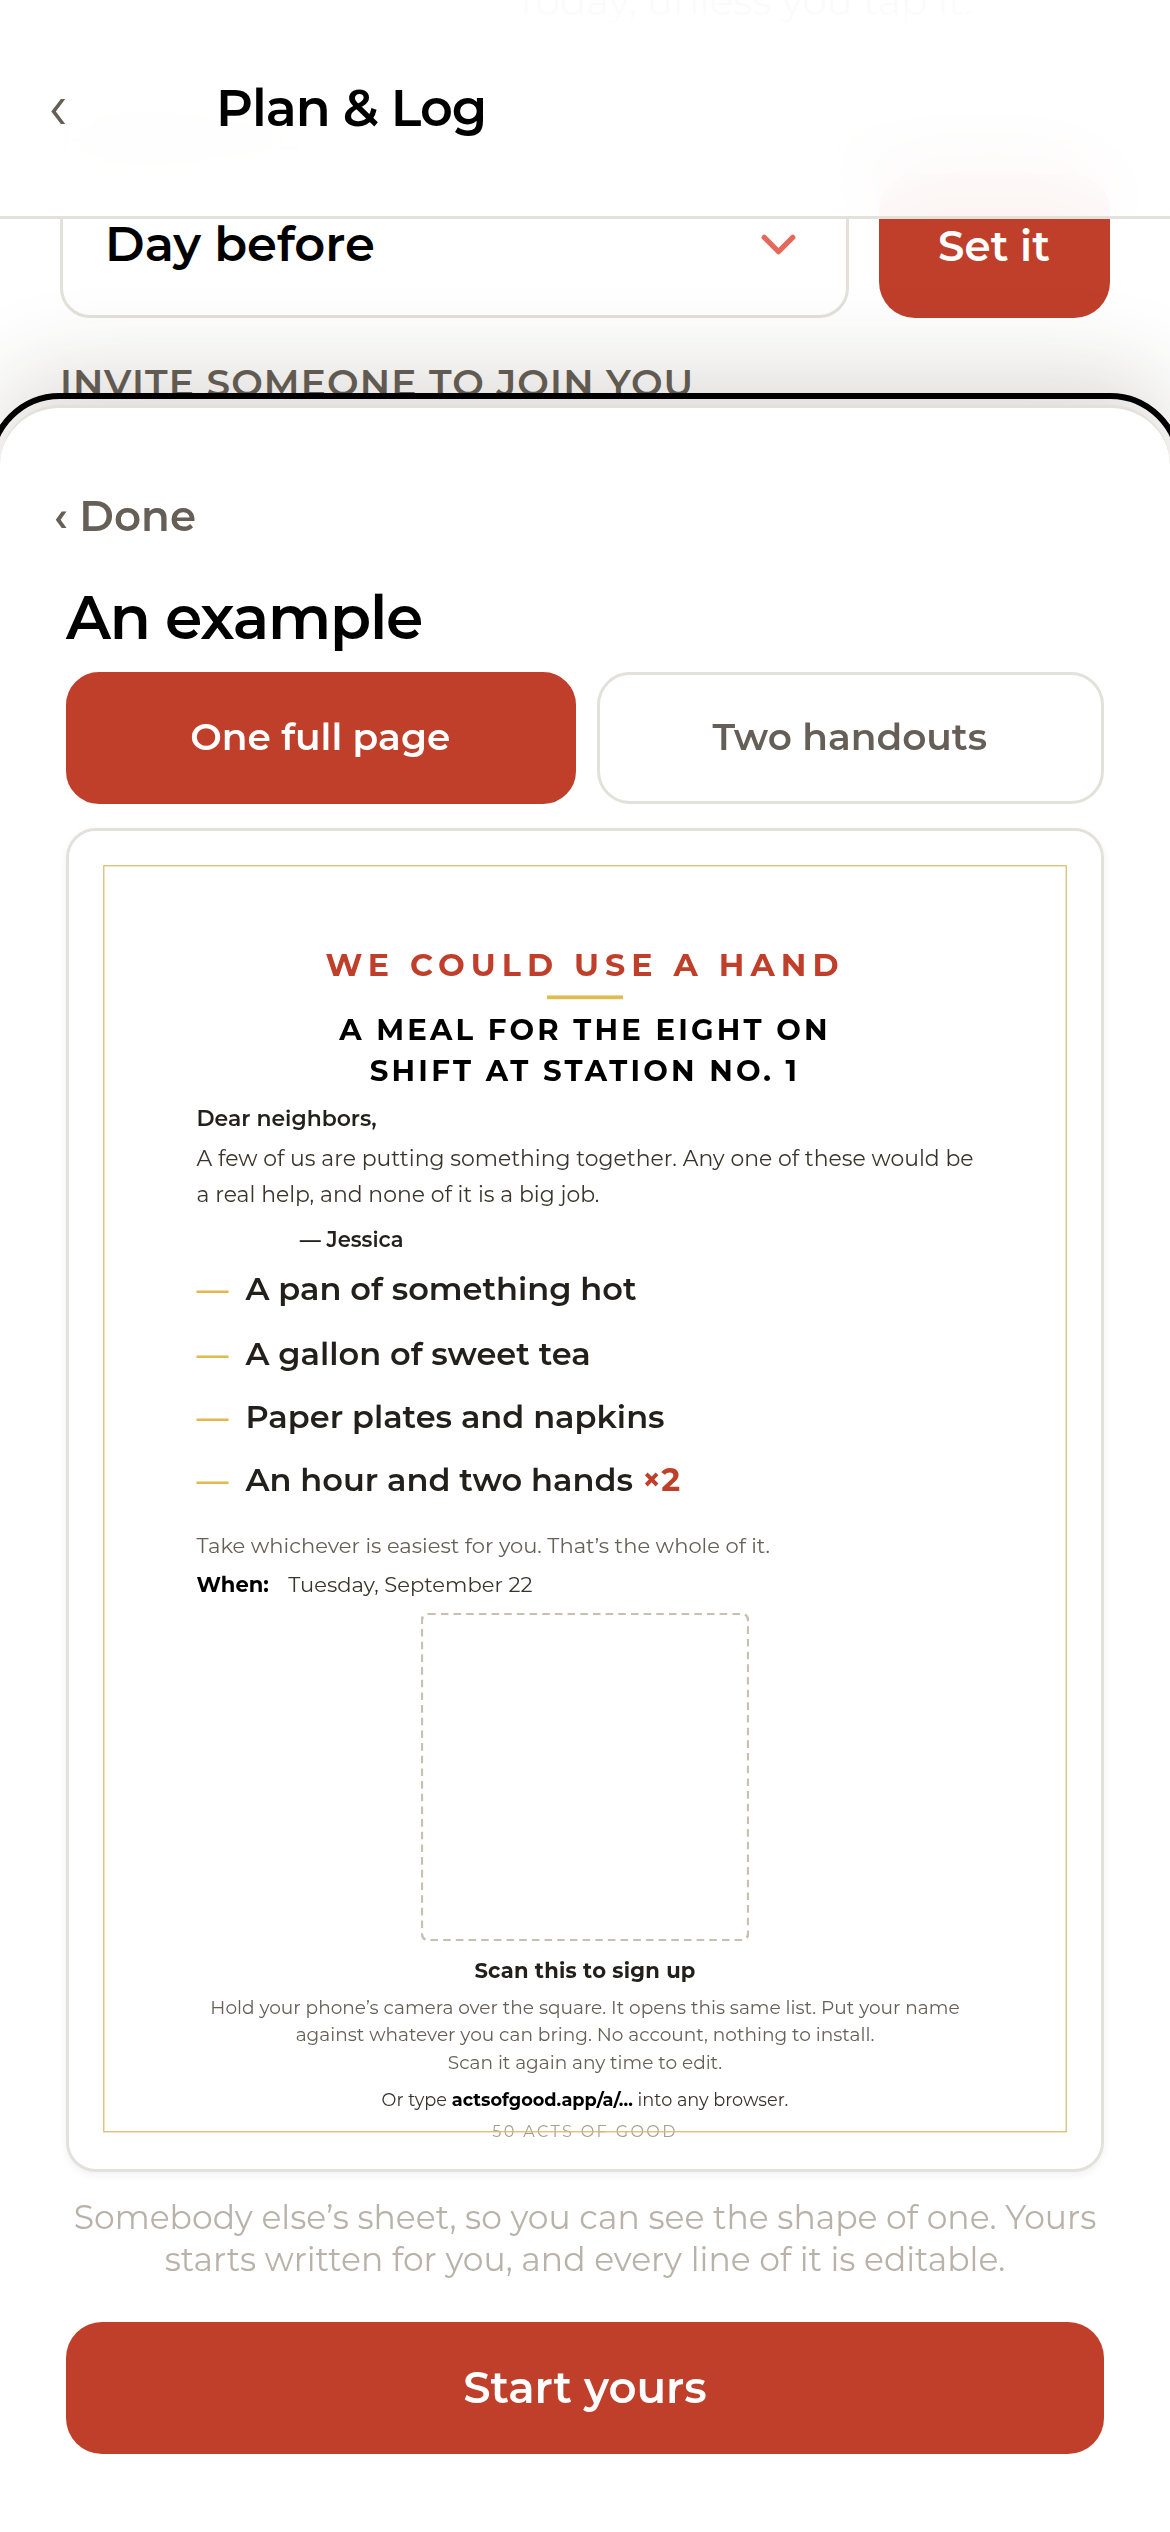
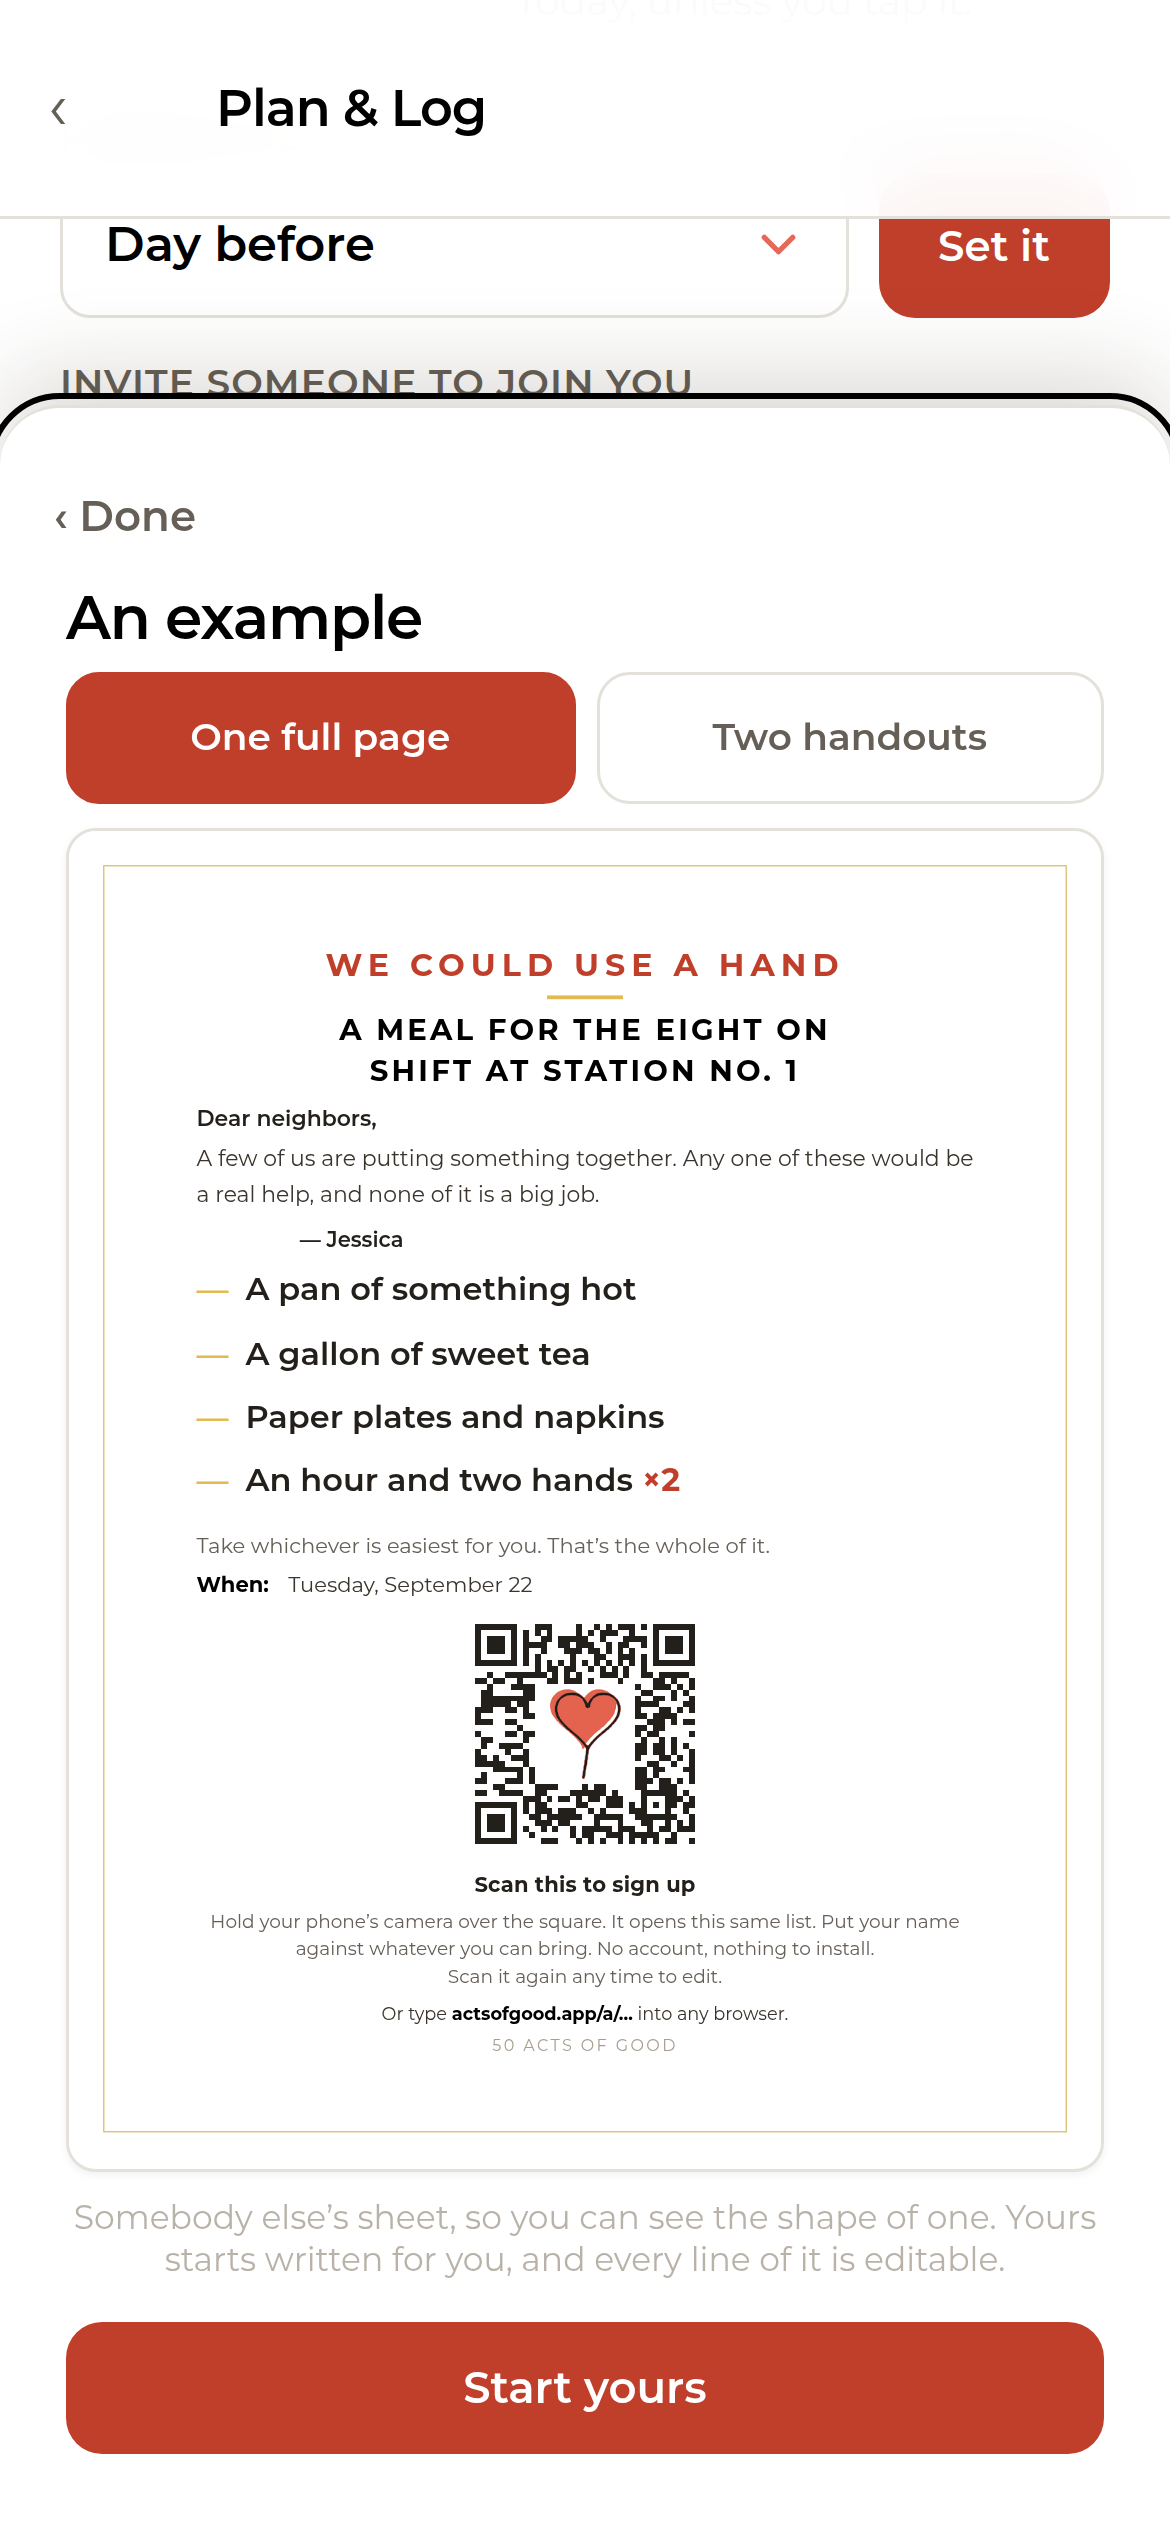
6H: the proposed act number fills itself in and runs with the year, and the finish no longer stamps it into the act on its way past

Changed region(s): [[0.2462, 0.624, 0.7385, 0.8424]]

diff --git a/index.html b/index.html
@@ -942,7 +942,6 @@ body.hasinstall{padding-bottom:calc(184px + env(safe-area-inset-bottom))}
   padding:5px;line-height:0;border-radius:9px;min-width:44px;min-height:44px;display:inline-flex;align-items:center;justify-content:center}
 .datewrap .calgo svg{display:block}
   .datewrap .calgo{pointer-events:none;padding:0}
-  .pqeg{border:2px dashed #C9C0B2;border-radius:6px;display:inline-block}
 .datebtn.empty{color:#B9B2A9;font-weight:400}
 /* The half act was removed entirely on G's instruction, 6 Sept 2026. See HANDOFF. */
 /* the year, finished — the one line on Your year that is not a measurement */
@@ -1852,7 +1851,7 @@ select.pick::-ms-expand{display:none}
       <input id="wk-t" oninput="wkEdited()" placeholder="Doughnuts for the vet clinic staff"></div>
 
     <div style="display:flex;gap:10px">
-      <div class="field" style="flex:1"><label for="wk-exp">Which act</label>
+      <div class="field" style="flex:1"><label for="wk-exp">Proposed act</label>
         <input id="wk-exp" oninput="wkEdited()" inputmode="decimal"></div>
       <div class="field" style="flex:1.4"><label for="wk-when-btn">Aiming for</label>
         <input id="wk-when" type="hidden" aria-hidden="true">
@@ -1971,13 +1970,20 @@ select.pick::-ms-expand{display:none}
   <button class="sheetback" onclick="sheet(null)">‹ Back</button>
   <h3 id="fin-h3">This becomes</h3>
   <div style="display:flex;gap:10px;align-items:flex-end;margin-top:12px">
+    <!-- RULED by G, 16 September 2026: "even if I pick tile 14 I cannot post
+         out of turn it has to be consecutive. You can plan but not complete the
+         post so if you post it changes to the next consecutive number."
+         So this states the number rather than asking for it. It stays a field
+         rather than a line of text because it is the same shape as the date
+         beside it and the person is reading them as a pair. -->
     <div class="field" style="flex:.7;margin:0"><label for="fin-no">Act</label>
-      <input id="fin-no" inputmode="numeric" style="max-width:90px"></div>
+      <input id="fin-no" inputmode="numeric" style="max-width:90px" readonly
+             aria-readonly="true"></div>
     <div class="field" style="flex:1.6;margin:0"><label for="fin-when-btn">On</label>
       <input id="fin-when" type="hidden" aria-hidden="true">
       <div class="datewrap"><button class="datebtn" id="fin-when-btn" onclick="openDate('fin-when')" data-lab="On" aria-label="On, pick a date" ></button></div></div>
   </div>
-  <p class="note" style="margin-top:10px">of <span id="fin-of"></span>. Editable.</p>
+  <p class="note" style="margin-top:10px">of <span id="fin-of"></span>. <span id="fin-why"></span></p>
   <p class="note" id="fin-ripe" style="margin-top:6px;font-style:italic;color:#6B5E3A"></p>
   <button class="btn" onclick="finishGo()" id="fin-go">On to the post</button>
 </div></div>
@@ -7423,6 +7429,17 @@ function openPaperPreview(){
    The example is Jessica's meal for the eight on shift — the act that produced
    this feature — and the last row costs nothing but an hour and two hands,
    which is ruling 23A's point and must not be edited out. */
+/* the payload of the example's code. Plain words, never a web address, so a
+   camera pointed at it opens nothing and explains itself. */
+/* MEASURED, 16 September 2026. A code's grain comes from how much it carries,
+   so the sentence has to be about as long as the address it stands in for or
+   the example teaches the wrong picture. A real sheet address is 35 characters
+   and draws 37 squares across; the first draft of this sentence was 115 and
+   drew 57, which is visibly finer than anything the app will ever print.
+
+   This one is 40 characters and draws 37 \u2014 the same grid as the real
+   thing. If it is ever reworded, measure again: the check below holds it. */
+const EG_QR_SAYS = 'An example sign-up sheet, not a real one';
 const ASK_EG_SHEET = {
   id:'example', key:'', live:0, claims:[], qty:[1,1,1,2],
   reason:'A meal for the eight on shift at Station No. 1',
@@ -8233,9 +8250,12 @@ async function askFree(pos){
    Level H, the letterhead heart in the middle, 17 of 37 modules cleared at 95%.
    MEASURED: 17x17 decodes, 19x19 does not. Do not make the heart bigger.
    Drawn offline — a poster can be made with no signal. */
-function askQR(id, px){
+/* `raw` exists for one caller: the example on the sign-up sheet block, which
+   needs a code that LOOKS right without pointing at a sheet that does not
+   exist. Every other caller passes an id and gets the real address. */
+function askQR(id, px, raw){
   px=px||150;
-  const q=qrcode(0,'H'); q.addData(AOG_BASE+'/a/'+id); q.make();
+  const q=qrcode(0,'H'); q.addData(raw || (AOG_BASE+'/a/'+id)); q.make();
   const n=q.getModuleCount(), side=Math.min(17,n-16), lo=Math.floor((n-side)/2), hi=lo+side;
   let d='';
   for(let y=0;y<n;y++) for(let x=0;x<n;x++)
@@ -8336,11 +8356,14 @@ function posterPanel(sh, half){
     (invite
       ? '<p class="ps">I hope you\u2019ll join us.</p>'
       : '<div class="pq">'+(sh.id==='example'
-             /* a working code on an example points at something that is not a
-                sheet, and a live code never travels into an example in this
-                project. The blank teaches the layout, which is the job. */
-             ? '<div class="pqeg" style="width:'+(half?150:260)+'px;height:'+
-               (half?150:260)+'px"></div>'
+             /* G, 16 Sept: "Add a fake QR code to the example." It is a real
+                code drawn by the real renderer, heart and all, so the example
+                looks like the thing it is teaching \u2014 but it carries a
+                sentence instead of an address. A live code never travels into
+                an example here, and a code pointing at /a/example would point
+                at a sheet that does not exist. Anybody who scans this gets
+                told, in words, that it is an example. */
+             ? askQR('example', half?150:260, EG_QR_SAYS)
              : askQR(sh.id, half?150:260))+'</div>'+
         '<p class="pfh">Scan this to sign up</p>'+
         /* RULED 12 Sept. Two changes, and the first is a promise, not a
@@ -8702,11 +8725,34 @@ function askPoster(kind){
 function openWork(w){
   WK = w;
   $('wk-t').value = w.t||'';
-  $('wk-exp').value = w.exp||'';
+  /* RULED by G, 16 September 2026: "you could say proposed act number and you
+     just auto fill this every time you post and if you fill one before it, it
+     will automatically update... it just needs to be almost like a running
+     number/tally."
+
+     So the box carries a number rather than a grey hint. NO NEW STATE, and that
+     is the whole trick (L89): an EMPTY w.exp means nobody has typed one, so the
+     box shows the live next square and re-reads it on every open. The moment
+     somebody types, wkEdited writes w.exp and the box is theirs from then on.
+     Clearing it hands it back to the running number.
+
+     It counts finished acts only. A plan sitting in a square is not a booking,
+     and the finish does not honour one either \u2014 the two have to agree or
+     the box is lying about what will happen. */
+  const live = nextSlot(false);
+  /* what the box was filled with when nobody had typed. wkEdited reads every
+     field on the editor, including from finishWork \u2014 so without this it
+     stamped the running number into the act the moment the finish sheet opened,
+     and a number nobody chose stopped running. Caught by a check, not by eye.
+     Deliberately NOT saved: it describes this visit to the screen. */
+  WK_EXP_AUTO = (w.exp || live > S.n) ? '' : String(live);
+  $('wk-exp').value = w.exp || WK_EXP_AUTO;
   /* G, 11 Sept: "remove auto, just say what is expected." The grey already says
      the number is provisional; "auto" spent five characters saying it a second
      time, and the brackets were being cut off inside the box. */
-  $('wk-exp').placeholder = String(nextSlot(true));
+  /* the box is filled now, so the hint only shows on a full year, where there
+     is no next square to propose */
+  $('wk-exp').placeholder = live <= S.n ? String(live) : '\u2014';
   /* G, 8 Sept: "the pick a date should be filled with the current date. If
      not, they'll have to pick the calendar to change it." Starting empty made
      every act in the works begin with no day at all, which meant a tap before
@@ -8733,11 +8779,15 @@ function openWork(w){
   drawPhotos('wk-photos','wk-file', w.photos, ()=>drawPhotos('wk-photos','wk-file', WK.photos, ()=>openWork(WK)));
   go('work');
 }
+let WK_EXP_AUTO = '';
 function wkEdited(){
   if(!WK) return;
   workKeep();
   WK.t = $('wk-t').value.trim();
-  WK.exp = $('wk-exp').value.trim();
+  /* a number the app proposed is not a number the person chose. Leaving it
+     empty is what keeps it running. */
+  const typed = $('wk-exp').value.trim();
+  WK.exp = (typed && typed === WK_EXP_AUTO) ? '' : typed;
   WK.d = $('wk-when').value;
   WK.hon = $('wk-hon').value.trim();
   WK.story = $('wk-story').value;
@@ -9169,8 +9219,25 @@ function finishWork(anon){
   if(!WK.t){ say('It needs a name','Everything else can wait. That bit can\u2019t.'); return; }
   FIN_ANON = !!anon;
   /* an expectation another act already fulfilled quietly steps aside */
-  const expTaken = WK.exp && S.acts.some(x=>slotOf(x)===Math.ceil(parseFloat(WK.exp)));
-  $('fin-no').value = (!WK.exp || expTaken) ? String(nextSlot(true)) : WK.exp;
+  /* THE NUMBER IS NOT A CHOICE. It is the next free square, counting finished
+     acts only \u2014 a plan sitting in a square must not push the act you are
+     finishing past it. Deleting an act leaves a hole, and the next act finished
+     drops into that hole, which is still "the next one" and is why this fills
+     gaps rather than counting from the highest. */
+  const slot = nextSlot(false);
+  $('fin-no').value = String(slot);
+  const why = $('fin-why');
+  if(why){
+    const planned = WK.exp ? Math.round(parseFloat(String(WK.exp).replace(',','.'))) : 0;
+    /* G, 16 Sept, in his own words: "a small note that says this was 14 in
+       planning, but you're posting this and will turn into X." The first draft
+       explained the rule. At the moment somebody is tapping the button, the
+       consequence is the thing, and the rule can wait for the line underneath. */
+    why.textContent = (planned && planned !== slot)
+      ? 'You planned this as ' + planned + '. Finishing it now makes it act ' +
+        slot + '.'
+      : 'Acts are numbered in the order you finish them.';
+  }
   $('fin-when').value = (WK.d && !isFuture(WK.d)) ? WK.d : todayISO();
   syncDateBtn('fin-when');
   $('fin-of').textContent = S.n;
@@ -9180,13 +9247,19 @@ function finishWork(anon){
 }
 function finishGo(){
   const w=WK; if(!w) return;
-  const noRaw = $('fin-no').value.trim() || String(nextSlot(true));
-  const no = String(Math.round(parseFloat(noRaw.replace(',','.'))));
-  const slot = parseInt(no,10);
-  if(!(slot>=1)){ say('That is not an act number','A whole number between 1 and '+S.n+'.'); return; }
-  if(slot > S.n){ say('That\u2019s past '+S.n,'Raise the goal on the You screen first, or pick a lower number.'); return; }
-  const clash = S.acts.filter(x=>slotOf(x)===slot)[0];
-  if(clash){ say('Act '+slot+' is already used','\u201C'+(clash.t||'')+'\u201D is in that square. Pick another number.'); return; }
+  /* read it from the same place the sheet drew it from, never from the box:
+     a readonly field is not a promise, and this is the number the act keeps. */
+  const slot = nextSlot(false);
+  const no = String(slot);
+  if(slot > S.n){
+    say('Your '+S.n+' are all done',
+        'There is no square left for this one. Raise the goal on the You screen '+
+        'and it will have somewhere to go.');
+    return;
+  }
+  /* nextSlot returns a square nothing is standing in, so the old "that number is
+     taken" branch could not be reached any more and was removed with the field
+     that made it possible. */
   const d = $('fin-when').value || todayISO();
   const t = tally(w.spends||[]);
   const a = { no:no, t:w.t, out:'', who:(w.who||[]).slice(), hon:w.hon||'',
